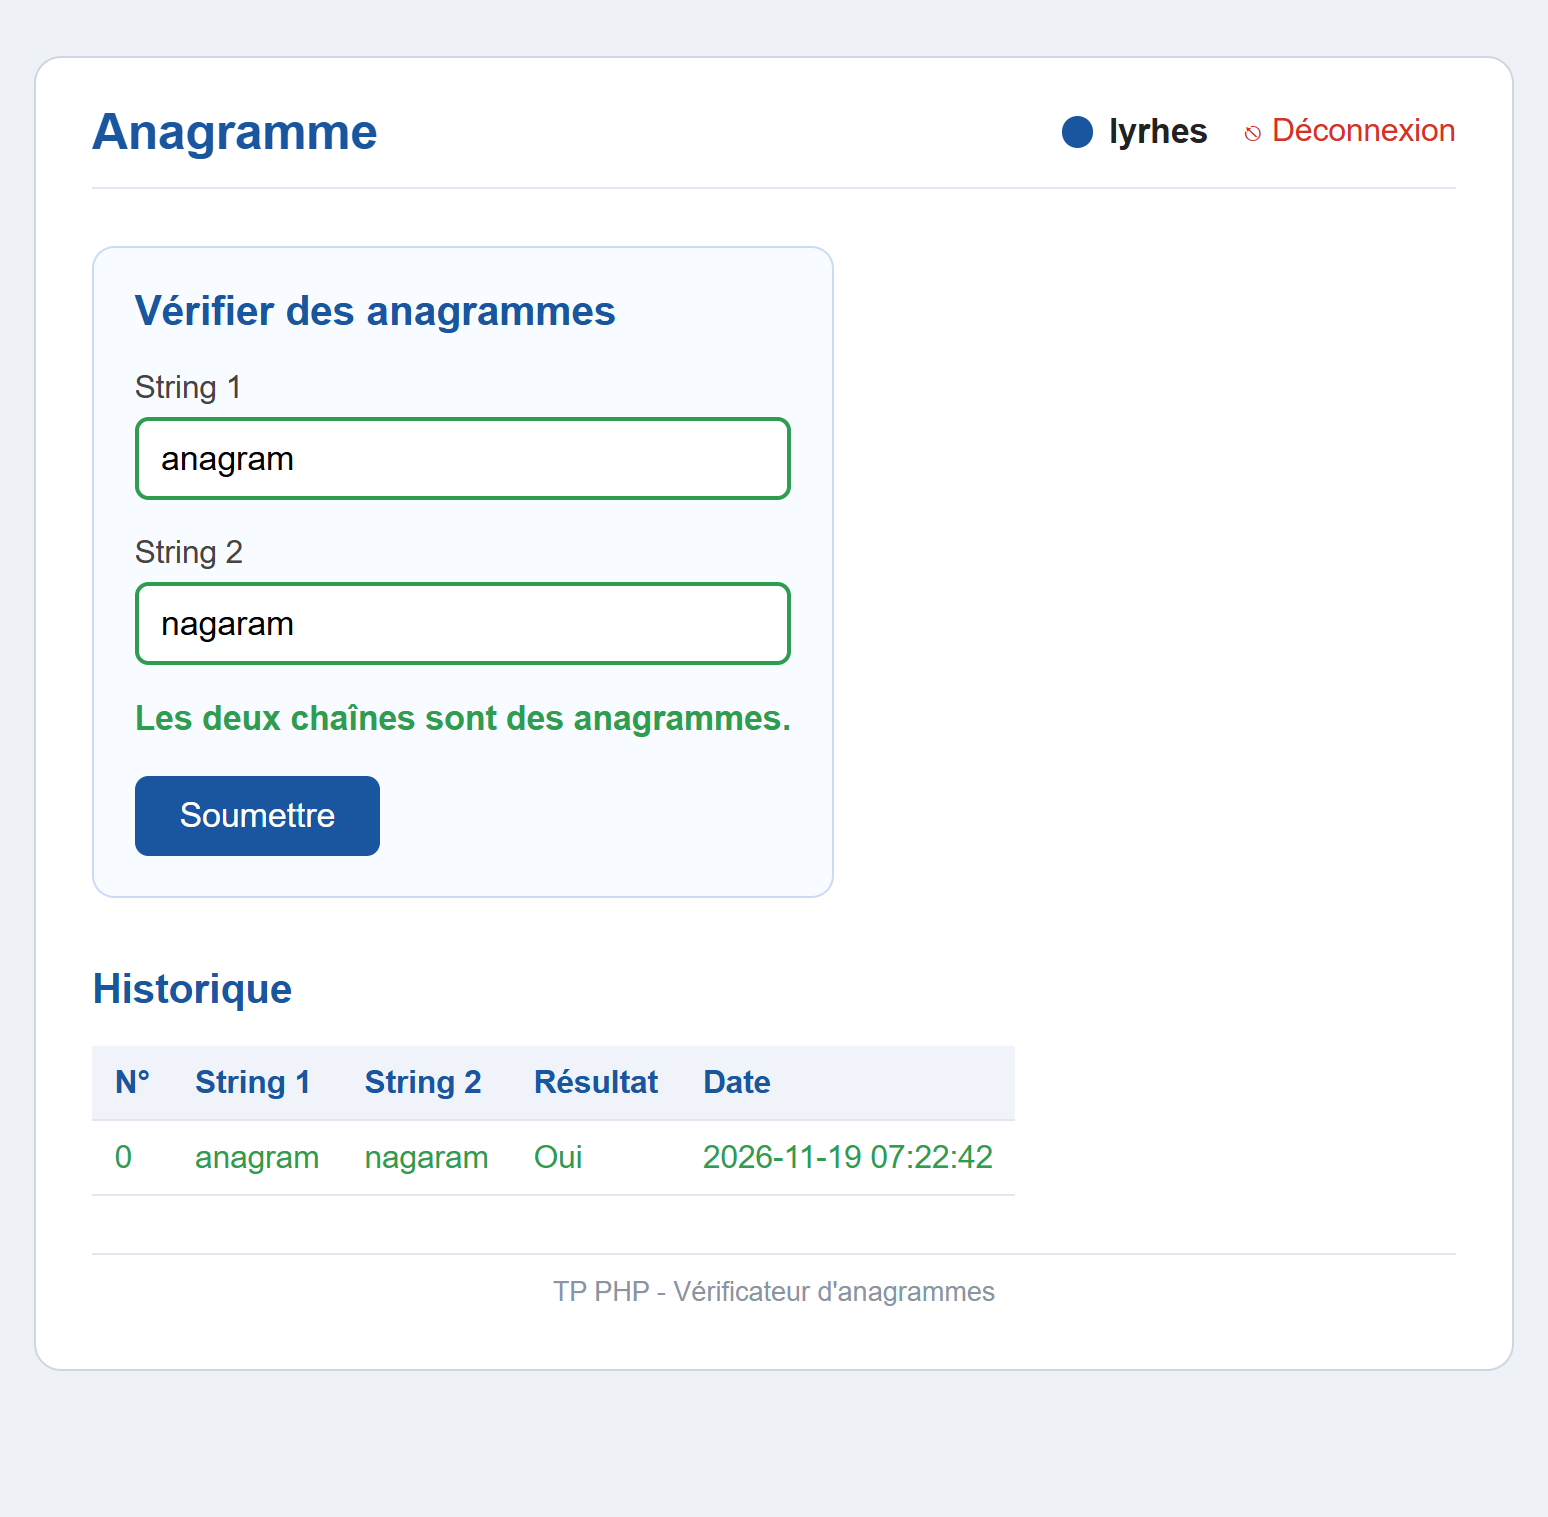
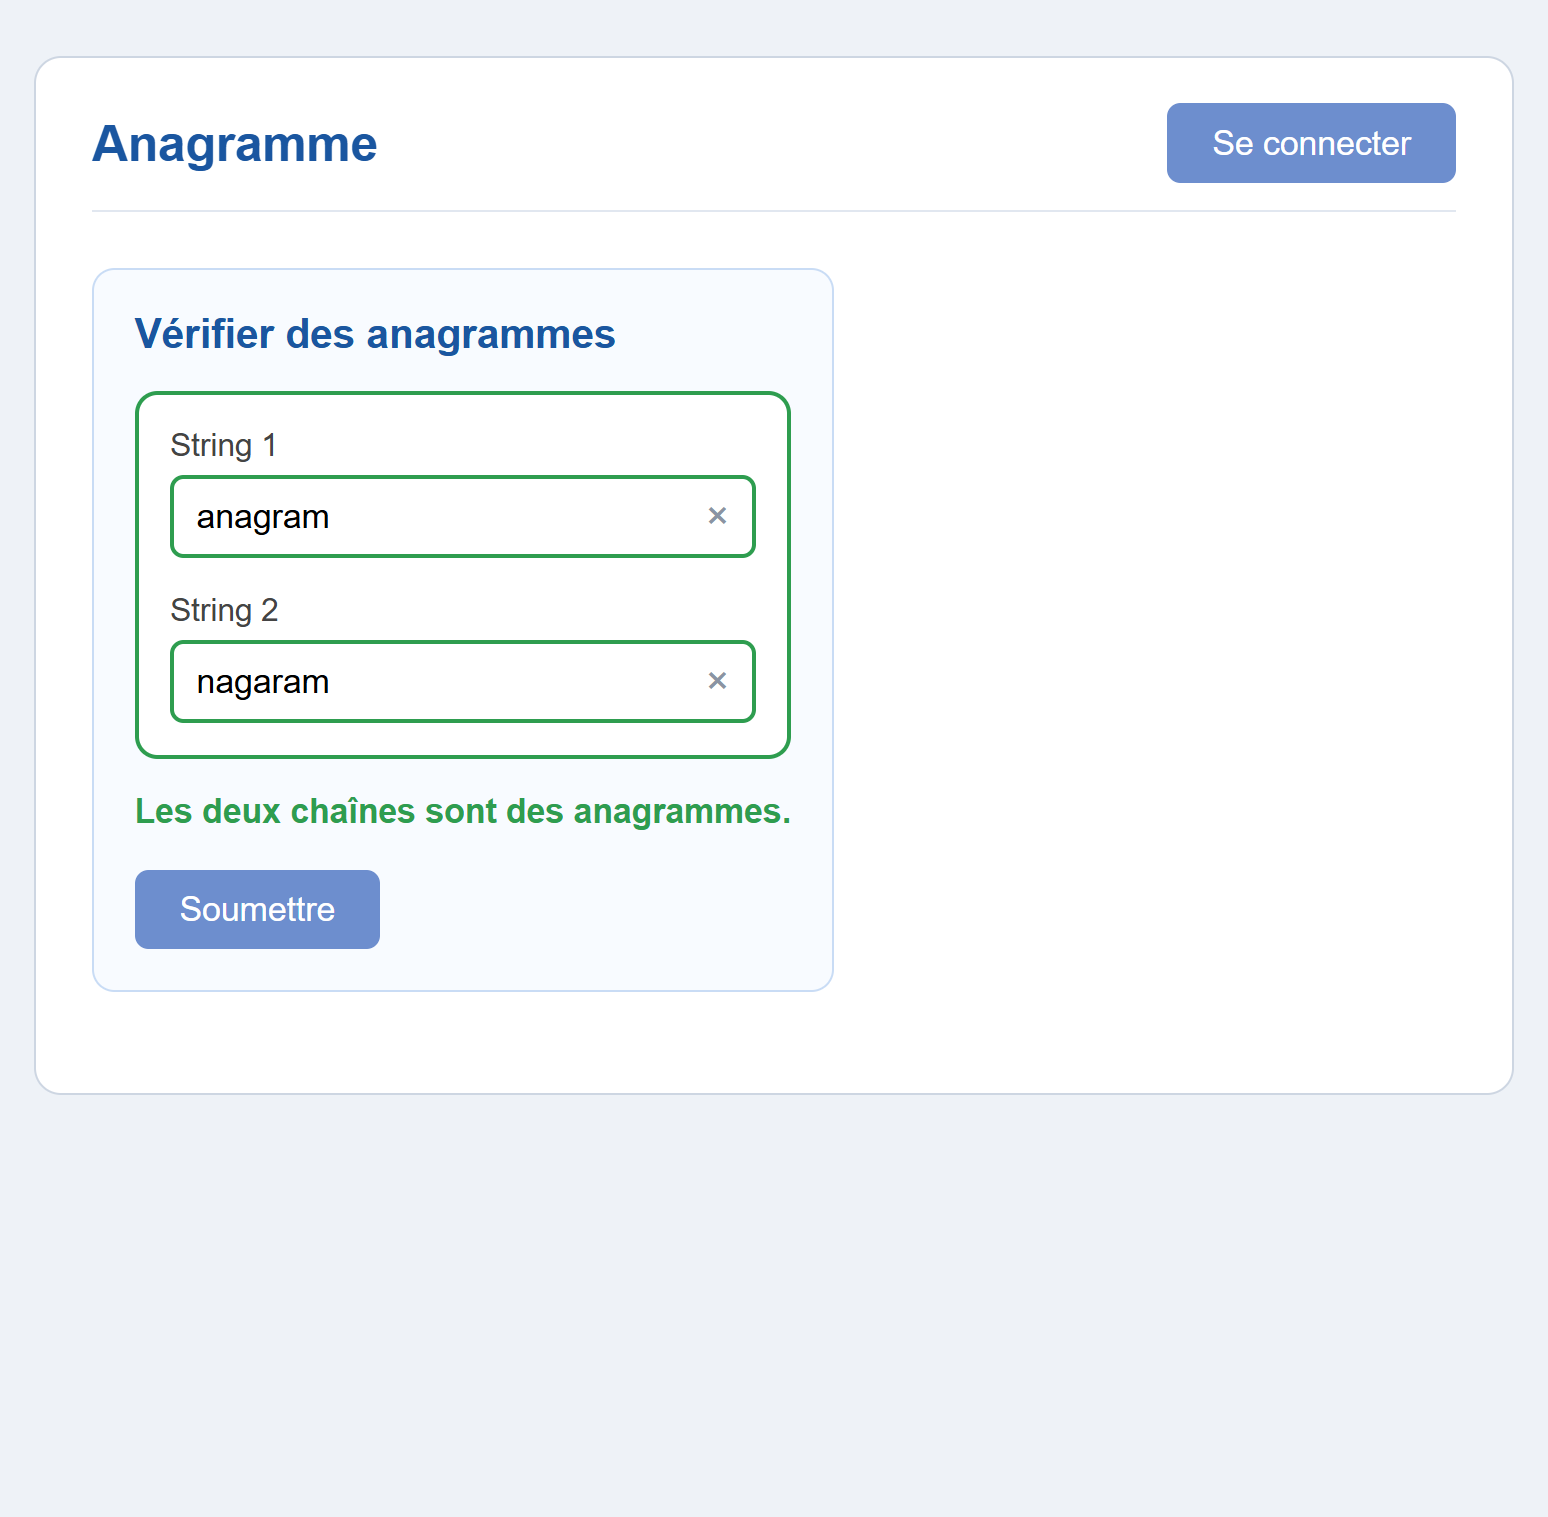
Prepare TP PHP project for GitHub

diff --git a/style.css b/style.css
@@ -116,6 +116,19 @@ a {
     display: flex;
     gap: 15px;
     margin-bottom: 15px;
+    padding: 14px;
+    background: #fff;
+    border: 2px solid #e1e7f0;
+    border-radius: 10px;
+}
+
+/* Cadre contenant les champs : vert si anagrammes, rouge sinon */
+.champs.champs-ok {
+    border-color: #2e9d4f;
+}
+
+.champs.champs-ko {
+    border-color: #d93025;
 }
 
 .champ {
@@ -154,12 +167,69 @@ input.champ-ok {
     border-color: #2e9d4f;
 }
 
+
 input.champ-ko {
     border-color: #d93025;
 }
 
 .formulaire .bouton {
     margin-top: 5px;
+}
+
+/* Formulaire de vérification : le bouton est replacé visuellement sous les champs */
+.formulaire-verification {
+    display: flex;
+    flex-direction: column;
+}
+
+.formulaire-verification .champs {
+    order: 1;
+}
+
+.formulaire-verification .erreurs,
+.formulaire-verification .message {
+    order: 2;
+}
+
+.formulaire-verification .bouton-soumettre {
+    order: 3;
+    align-self: flex-start;
+}
+
+/* Icône d'effacement dans les champs */
+.champ-saisie {
+    position: relative;
+}
+
+.champ-saisie input {
+    padding-right: 34px;
+}
+
+.effacer {
+    position: absolute;
+    top: 50%;
+    right: 6px;
+    transform: translateY(-50%);
+    width: 22px;
+    height: 22px;
+    padding: 0;
+    font-size: 18px;
+    line-height: 1;
+    color: #8a94a3;
+    background: transparent;
+    border: none;
+    border-radius: 50%;
+    cursor: pointer;
+}
+
+.effacer:hover {
+    color: #d93025;
+    background: #eef2f7;
+}
+
+/* L'icône est masquée quand le champ est vide */
+.champ-saisie input:placeholder-shown + .effacer {
+    visibility: hidden;
 }
 
 /* ---------- Messages ---------- */

diff --git a/index.php b/index.php
@@ -13,15 +13,23 @@ if ($_SERVER['REQUEST_METHOD'] === 'POST') {
     $string1 = trim($_POST['string1'] ?? '');
     $string2 = trim($_POST['string2'] ?? '');
 
-    //  Champs vides
-    if ($string1 === '' || $string2 === '') {
+    // Clic sur l'icône d'effacement d'un champ : on vide ce champ uniquement,
+    // sans lancer la vérification ni enregistrer dans l'historique.
+    $vider = $_POST['vider'] ?? '';
+    if ($vider === 'string1') {
+        $string1 = '';
+    } elseif ($vider === 'string2') {
+        $string2 = '';
+    }
+    // Champs vides
+    elseif ($string1 === '' || $string2 === '') {
         $erreurs[] = 'Les deux champs sont obligatoires.';
     }
-    //  Caractères non autorisés
+    // Caractères non autorisés
     elseif (!chaine_valide($string1) || !chaine_valide($string2)) {
         $erreurs[] = "Caractères non autorisés : utilisez uniquement des lettres, des espaces, des apostrophes ou des tirets.";
     }
-    //  Vérification de l'anagramme
+    // Vérification de l'anagramme
     else {
         $resultat = sont_anagrammes($string1, $string2);
 
@@ -48,12 +56,15 @@ if (est_connecte()) {
     $historique = $stmt->fetchAll();
 }
 
-// Classe CSS appliquée aux champs selon le résultat
-$classeChamp = '';
+// Classes CSS appliquées aux champs et à leur cadre selon le résultat
+$classeChamp  = '';
+$classeChamps = '';
 if ($resultat === true) {
-    $classeChamp = 'champ-ok';
+    $classeChamp  = 'champ-ok';
+    $classeChamps = 'champs-ok';
 } elseif ($resultat === false) {
-    $classeChamp = 'champ-ko';
+    $classeChamp  = 'champ-ko';
+    $classeChamps = 'champs-ko';
 }
 
 require 'header.php';
@@ -61,19 +72,32 @@ require 'header.php';
 
 <div class="contenu">
     <div class="colonne-formulaire">
-        <h2>Vérifier des anagrammes</h2>
+      <h2>Vérifier des anagrammes</h2>
 
-        <form method="post" action="index.php" class="formulaire">
-            <div class="champs">
+        <form method="post" action="index.php" class="formulaire formulaire-verification">
+            <!-- Bouton placé en premier dans le DOM : la touche Entrée soumet ainsi
+                 le formulaire au lieu d'un bouton d'effacement. Le CSS le replace
+                 visuellement sous les champs avec la propriété "order". -->
+            <button type="submit" class="bouton bouton-soumettre">Soumettre</button>
+
+            <div class="champs <?= $classeChamps ?>">
                 <div class="champ">
                     <label for="string1">String 1</label>
-                    <input type="text" id="string1" name="string1" maxlength="255"
-                           value="<?= e($string1) ?>" class="<?= $classeChamp ?>">
+                    <div class="champ-saisie">
+                        <input type="text" id="string1" name="string1" maxlength="255"
+                               value="<?= e($string1) ?>" class="<?= $classeChamp ?>" placeholder=" ">
+                        <button type="submit" name="vider" value="string1" class="effacer"
+                                title="Vider le champ String 1" aria-label="Vider le champ String 1">&times;</button>
+                    </div>
                 </div>
                 <div class="champ">
                     <label for="string2">String 2</label>
-                    <input type="text" id="string2" name="string2" maxlength="255"
-                           value="<?= e($string2) ?>" class="<?= $classeChamp ?>">
+                    <div class="champ-saisie">
+                        <input type="text" id="string2" name="string2" maxlength="255"
+                               value="<?= e($string2) ?>" class="<?= $classeChamp ?>" placeholder=" ">
+                        <button type="submit" name="vider" value="string2" class="effacer"
+                                title="Vider le champ String 2" aria-label="Vider le champ String 2">&times;</button>
+                    </div>
                 </div>
             </div>
 
@@ -90,22 +114,19 @@ require 'header.php';
             <?php elseif ($resultat === false): ?>
                 <p class="message negatif">Les deux chaînes ne sont pas des anagrammes.</p>
             <?php endif; ?>
-
-            <button type="submit" class="bouton">Soumettre</button>
         </form>
     </div>
 
     <div class="colonne-historique">
-        <h2>Historique</h2>
+       
 
         <?php if (!est_connecte()): ?>
-            <p class="info">
-                <a href="login.php">Connectez-vous</a> pour enregistrer vos vérifications
-                et consulter votre historique personnel.
-            </p>
+            
         <?php elseif (!$historique): ?>
             <p class="info">Aucune vérification enregistrée pour le moment.</p>
         <?php else: ?>
+
+             <h2>Historique</h2>
             <table>
                 <thead>
                     <tr>
@@ -134,4 +155,4 @@ require 'header.php';
     </div>
 </div>
 
-<?php require 'footer.php'; ?>
+

diff --git a/header.php b/header.php
@@ -9,7 +9,7 @@ if (!isset($pageTitre)) {
     <meta charset="utf-8">
     <meta name="viewport" content="width=device-width, initial-scale=1">
     <title><?= e($pageTitre) ?></title>
-    <link rel="stylesheet" href="style.css">
+    <link rel="stylesheet" href="style.css?v=2">
 </head>
 <body>
 <div class="carte">

diff --git a/footer.php b/footer.php
@@ -1,4 +1,4 @@
-    <p class="pied">TP PHP - Vérificateur d'anagrammes</p>
+    <p class="pied"> Vérificateur d'anagrammes</p>
 </div>
 </body>
 </html>

diff --git a/README.md b/README.md
@@ -8,7 +8,8 @@ Aucun JavaScript n'est utilisé : uniquement HTML5, CSS3, PHP 8 et MySQL (PDO).
 ## Fonctionnalités
 
 - Vérification de deux chaînes (sans tenir compte de la casse ni des espaces).
-- Champs encadrés en vert si les chaînes sont des anagrammes, en rouge sinon.
+- Champs et cadre du formulaire en vert si les chaînes sont des anagrammes, en rouge sinon.
+- Icône « × » dans chaque champ pour le vider d'un clic (sans JavaScript).
 - Validation : champs vides, caractères non autorisés.
 - Inscription (pseudo, mot de passe, confirmation), pseudo unique.
 - Connexion / déconnexion avec sessions PHP.
@@ -151,9 +152,14 @@ La variante « trier les deux chaînes puis les comparer » serait en `O(n log n
 ### Gestion des erreurs
 ![Erreurs](captures/07-erreurs.png)
 
+### Icône d'effacement des champs
+![Champs remplis](captures/08-champs-remplis.png)
+
 ## Remarques
 
 - Les requêtes SQL utilisent des requêtes préparées PDO (protection contre l'injection SQL).
 - Les valeurs affichées sont échappées avec `htmlspecialchars()` (protection XSS).
 - Le formulaire accepte les lettres (accents compris), les espaces, les apostrophes
   et les tirets ; les chiffres et la ponctuation sont refusés.
+- L'icône « × » est un bouton de soumission nommé `vider` : PHP vide le champ concerné
+  sans lancer la vérification. Aucun JavaScript n'est nécessaire.
